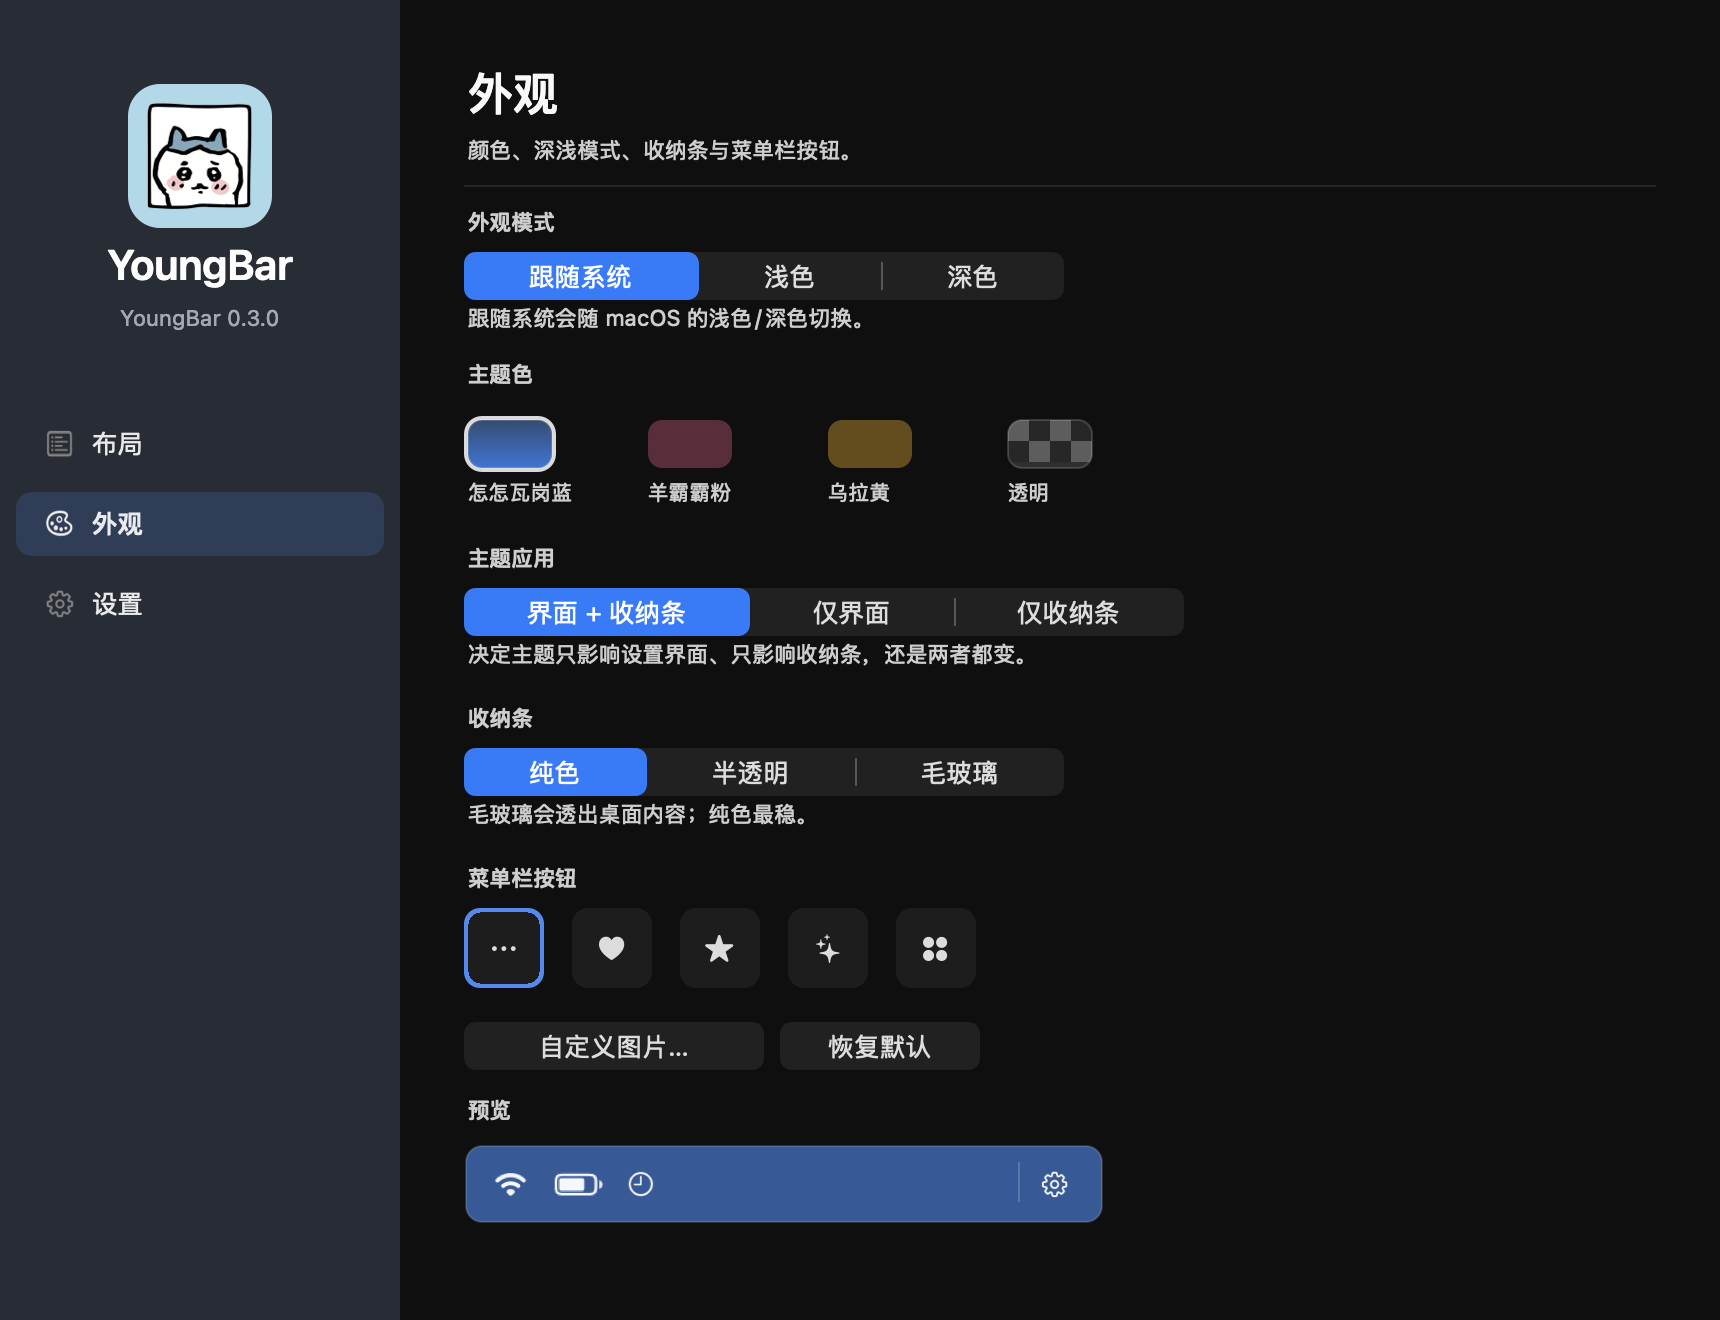
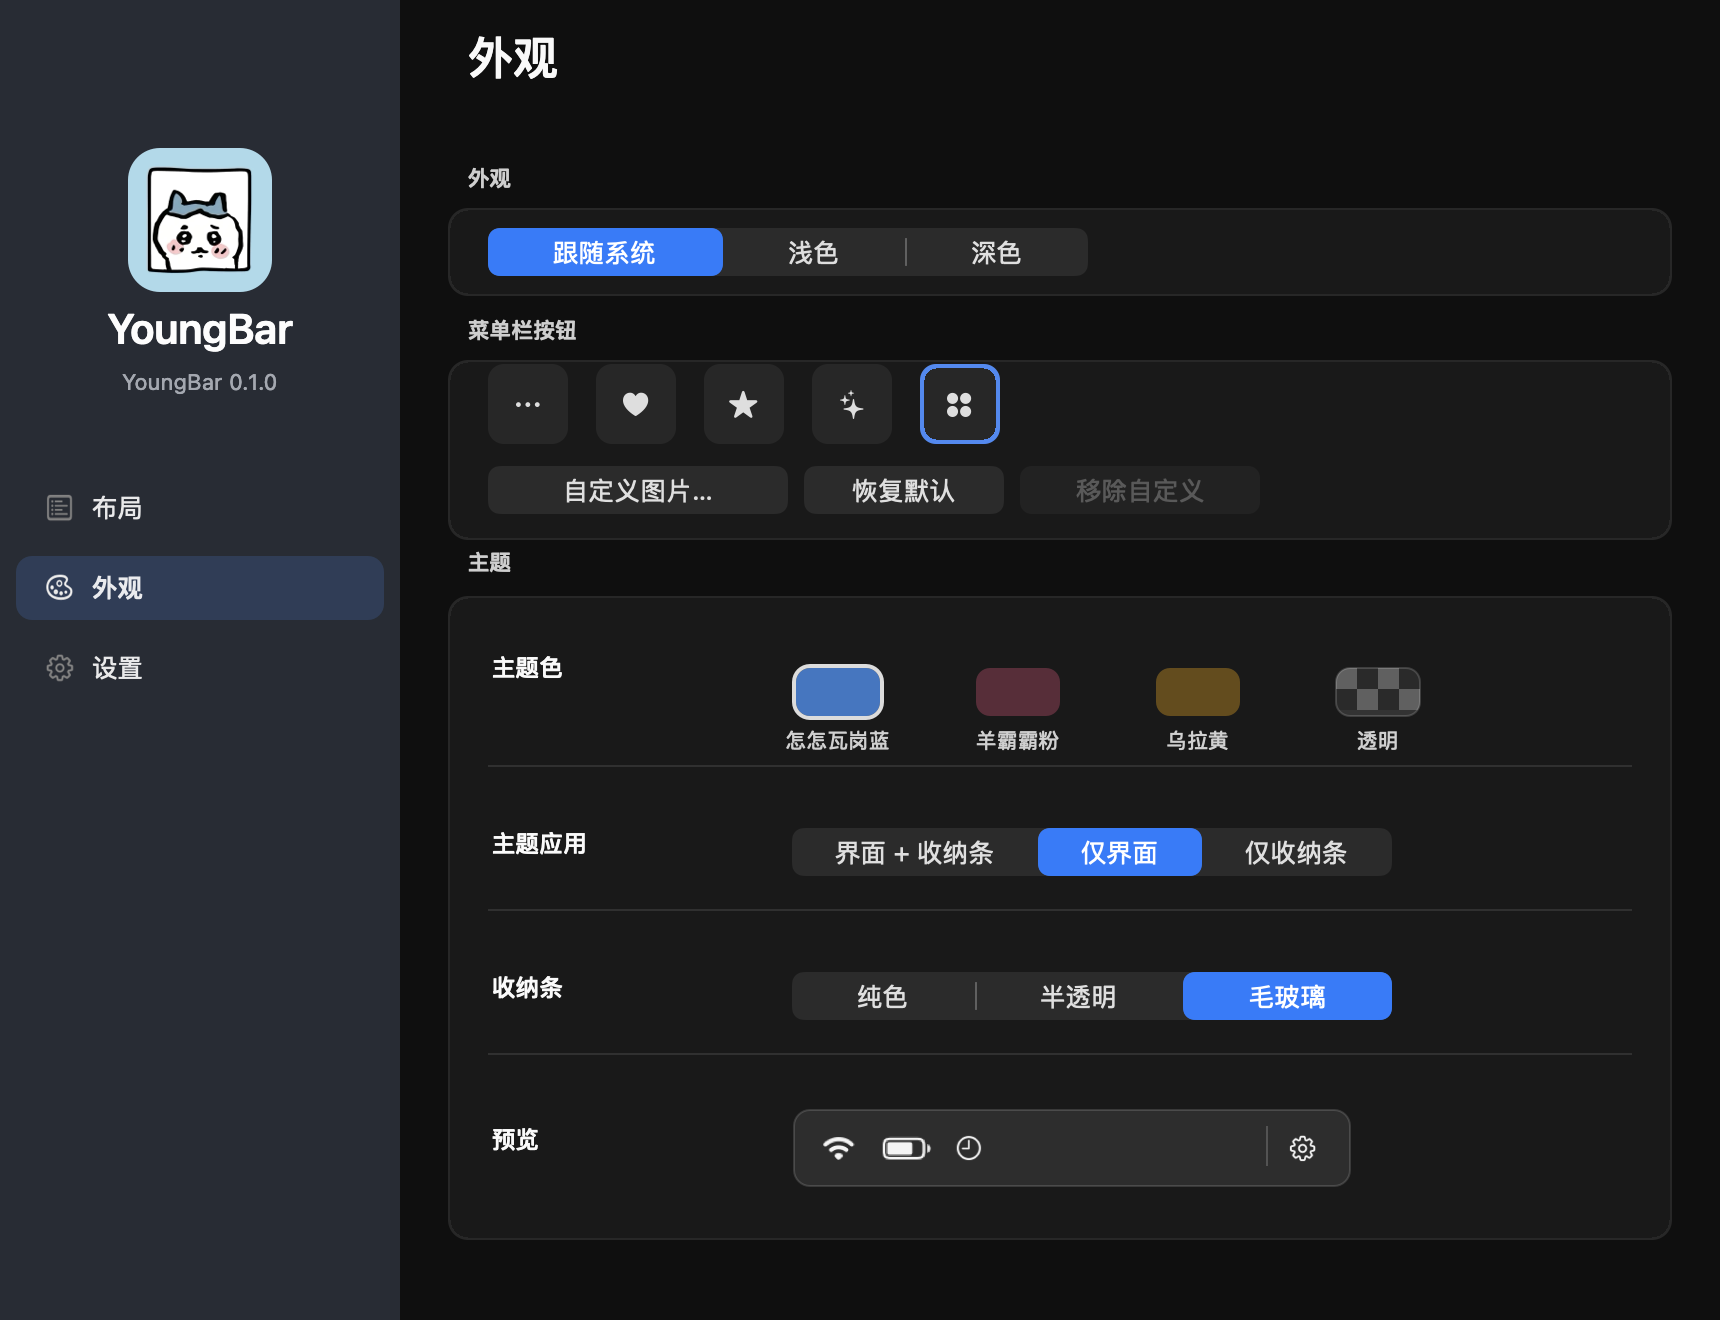
style(youngbar): 固定标题栏与外观页三分区
- 标题移出滚动内容，固定 header，悬停显示半透明底
- 外观页重排为 Appearance / 菜单栏按钮 / Theme
- Theme 内含主题色、作用范围、收纳条、预览
- 统一卡片内容边距与色块/文字居中
- 更新截图与第 145 轮日志

diff --git a/Sources/YoungBar/BarSettings.swift b/Sources/YoungBar/BarSettings.swift
@@ -66,6 +66,9 @@ final class BarSettings: NSObject, NSTableViewDataSource, NSTableViewDelegate {
     private let scopeControl = NSSegmentedControl(labels: ThemeScope.allCases.map(\.title),
                                                   trackingMode: .selectOne, target: nil, action: nil)
     private let appIconView = NSImageView()
+    private let headerBar = SettingsHeader()
+    private let headerTitle = NSTextField(labelWithString: "")
+    private let headerSubtitle = NSTextField(labelWithString: "")
     private var colorButtons: [ThemeSwatchButton] = []
     private let preview = ThemePreviewView()
     private var iconButtons: [NSButton] = []
@@ -176,6 +179,20 @@ final class BarSettings: NSObject, NSTableViewDataSource, NSTableViewDelegate {
         scroll.autoresizingMask = [.width, .height]
         root.addSubview(scroll)
 
+        headerBar.frame = NSRect(x: 200, y: 692 - 84, width: 660, height: 84)
+        headerBar.autoresizingMask = [.width, .minYMargin]
+        root.addSubview(headerBar)
+
+        headerTitle.frame = NSRect(x: 32, y: 40, width: 596, height: 30)
+        headerTitle.font = .systemFont(ofSize: 24, weight: .semibold)
+        headerTitle.textColor = .labelColor
+        headerBar.addSubview(headerTitle)
+
+        headerSubtitle.frame = NSRect(x: 32, y: 18, width: 596, height: 18)
+        headerSubtitle.font = .systemFont(ofSize: 11)
+        headerSubtitle.textColor = .secondaryLabelColor
+        headerBar.addSubview(headerSubtitle)
+
         generalPage.frame = content.bounds
         layoutPage.frame = content.bounds
         appearancePage.frame = content.bounds
@@ -189,71 +206,70 @@ final class BarSettings: NSObject, NSTableViewDataSource, NSTableViewDelegate {
     }
 
     private func buildGeneralPage() {
-        addHeader(to: generalPage, title: L10n.t("设置", "Settings"))
 
         // Startup
-        generalPage.addSubview(sectionLabel(L10n.t("启动", "Startup"), y: 532))
-        generalPage.addSubview(card(y: 486, height: 36))
+        generalPage.addSubview(sectionLabel(L10n.t("启动", "Startup"), y: 562))
+        generalPage.addSubview(card(y: 516, height: 40))
         loginCheck.target = self
         loginCheck.action = #selector(loginChanged)
-        loginCheck.frame = NSRect(x: 32, y: 492, width: 300, height: 24)
+        loginCheck.frame = NSRect(x: 44, y: 522, width: 300, height: 24)
         generalPage.addSubview(loginCheck)
 
         let languageLabel = label(L10n.t("语言", "Language"),
-                                  NSRect(x: 372, y: 495, width: 62, height: 16),
+                                  NSRect(x: 372, y: 525, width: 62, height: 16),
                                   .systemFont(ofSize: 11, weight: .medium))
         languageLabel.textColor = .secondaryLabelColor
         generalPage.addSubview(languageLabel)
         languagePopup.addItems(withTitles: ["中文", "English"])
         languagePopup.target = self
         languagePopup.action = #selector(languageChanged)
-        languagePopup.frame = NSRect(x: 438, y: 486, width: 158, height: 28)
+        languagePopup.frame = NSRect(x: 438, y: 516, width: 158, height: 28)
         generalPage.addSubview(languagePopup)
 
         // Display & behaviour
-        generalPage.addSubview(sectionLabel(L10n.t("显示与行为", "Display & Behaviour"), y: 456))
-        generalPage.addSubview(card(y: 268, height: 168))
+        generalPage.addSubview(sectionLabel(L10n.t("显示与行为", "Display & Behaviour"), y: 486))
+        generalPage.addSubview(card(y: 270, height: 196))
         modeControl.target = self
         modeControl.action = #selector(modeChanged)
-        modeControl.frame = NSRect(x: 32, y: 402, width: 250, height: 28)
+        modeControl.frame = NSRect(x: 44, y: 424, width: 250, height: 28)
         modeControl.toolTip = L10n.t("聚合模式把收纳项收进一条工具条。",
                                      "Aggregate mode collects concealed items into one strip.")
         generalPage.addSubview(modeControl)
 
-        var y: CGFloat = 362
+        var y: CGFloat = 386
         for (check, key) in [(keepCheck, "keepShelfOpen"), (hoverCheck, "hoverExpand"), (blankCheck, "blankClick")] {
             check.target = self
             check.action = #selector(optionChanged(_:))
             check.identifier = .init(key)
-            check.frame = NSRect(x: 32, y: y, width: 460, height: 24)
+            check.frame = NSRect(x: 44, y: y, width: 460, height: 24)
             generalPage.addSubview(check)
             y -= 26
         }
 
         generalPage.addSubview(label(L10n.t("再次自动隐藏", "Auto-hide after"),
-                                     NSRect(x: 32, y: 280, width: 120, height: 18),
+                                     NSRect(x: 44, y: 286, width: 120, height: 18),
                                      .systemFont(ofSize: 12, weight: .medium)))
         delaySlider.target = self
         delaySlider.action = #selector(delayChanged)
         delaySlider.isContinuous = true
-        delaySlider.frame = NSRect(x: 156, y: 278, width: 270, height: 24)
+        delaySlider.frame = NSRect(x: 168, y: 284, width: 270, height: 24)
         delaySlider.toolTip = L10n.t("点击收纳项后，它在菜单栏上保持原生的时长。",
                                      "How long a clicked item stays native on the bar.")
         generalPage.addSubview(delaySlider)
-        delayValue.frame = NSRect(x: 436, y: 281, width: 80, height: 18)
+        delayValue.frame = NSRect(x: 448, y: 287, width: 80, height: 18)
         generalPage.addSubview(delayValue)
 
         // Menu bar
         generalPage.addSubview(sectionLabel(L10n.t("菜单栏", "Menu Bar"), y: 240))
         generalPage.addSubview(card(y: 186, height: 44))
         generalPage.addSubview(label(L10n.t("菜单栏图标间隙", "Menu-bar icon spacing"),
-                                     NSRect(x: 32, y: 206, width: 190, height: 18),
+                                     NSRect(x: 44, y: 206, width: 190, height: 18),
                                      .systemFont(ofSize: 12, weight: .medium)))
         spacingPopup.addItems(withTitles: [L10n.t("默认间隙", "Default"), L10n.t("较小间隙", "Smaller"),
                                            L10n.t("小间隙", "Small"), L10n.t("无间隙", "None")])
         spacingPopup.target = self
         spacingPopup.action = #selector(spacingChanged)
-        spacingPopup.frame = NSRect(x: 226, y: 200, width: 190, height: 28)
+        spacingPopup.frame = NSRect(x: 240, y: 200, width: 190, height: 28)
         spacingPopup.toolTip = L10n.t("写入全局偏好，重启电脑后生效。",
                                       "Writes a global preference; takes effect after a reboot.")
         generalPage.addSubview(spacingPopup)
@@ -261,7 +277,7 @@ final class BarSettings: NSObject, NSTableViewDataSource, NSTableViewDelegate {
         // Permissions
         generalPage.addSubview(sectionLabel(L10n.t("权限", "Permissions"), y: 164))
         generalPage.addSubview(card(y: 80, height: 74))
-        axStatus.frame = NSRect(x: 32, y: 124, width: 360, height: 18)
+        axStatus.frame = NSRect(x: 44, y: 124, width: 360, height: 18)
         axStatus.font = .systemFont(ofSize: 12)
         axStatus.toolTip = L10n.t("权限属于 YoungBar 这个 app，不是终端或 DSH；首次使用需要在系统设置中打开。",
                                   "This permission belongs to the YoungBar app, not the terminal or DSH; enable it in System Settings on first use.")
@@ -271,7 +287,7 @@ final class BarSettings: NSObject, NSTableViewDataSource, NSTableViewDelegate {
         axButton.frame = NSRect(x: 306, y: 118, width: 90, height: 30)
         generalPage.addSubview(axButton)
 
-        captureStatus.frame = NSRect(x: 32, y: 88, width: 360, height: 18)
+        captureStatus.frame = NSRect(x: 44, y: 88, width: 360, height: 18)
         captureStatus.font = .systemFont(ofSize: 12)
         captureStatus.toolTip = L10n.t("权限属于 YoungBar 这个 app；授权后可能需要重启 app 才能抓取原始图标。",
                                        "This permission belongs to the YoungBar app; restart it after granting to capture original icons.")
@@ -283,10 +299,10 @@ final class BarSettings: NSObject, NSTableViewDataSource, NSTableViewDelegate {
 
         refreshButton.target = self
         refreshButton.action = #selector(refreshTapped)
-        refreshButton.frame = NSRect(x: 32, y: 44, width: 140, height: 30)
+        refreshButton.frame = NSRect(x: 44, y: 44, width: 140, height: 30)
         generalPage.addSubview(refreshButton)
 
-        messageField.frame = NSRect(x: 32, y: 18, width: 596, height: 20)
+        messageField.frame = NSRect(x: 44, y: 18, width: 584, height: 20)
         messageField.textColor = .secondaryLabelColor
         messageField.font = .systemFont(ofSize: 10.5)
         generalPage.addSubview(messageField)
@@ -320,7 +336,6 @@ final class BarSettings: NSObject, NSTableViewDataSource, NSTableViewDelegate {
     }
 
     private func buildLayoutPage() {
-        addHeader(to: layoutPage, title: L10n.t("菜单栏布局", "Layout"), subtitle: L10n.t("拖动行调整从左到右的顺序；勾选决定每一项的可见方式。", "Drag rows to set the left-to-right order; tick how each item should appear."))
 
         table.rowHeight = 44
         table.style = .plain
@@ -363,52 +378,20 @@ final class BarSettings: NSObject, NSTableViewDataSource, NSTableViewDelegate {
     }
 
     private func buildAppearancePage() {
-        addHeader(to: appearancePage, title: L10n.t("外观", "Appearance"))
-
-        appearancePage.addSubview(sectionLabel(L10n.t("外观模式", "Appearance mode"), y: 540))
-        appearancePage.addSubview(card(y: 498, height: 36))
+        // Appearance
+        appearancePage.addSubview(sectionLabel(L10n.t("外观", "Appearance"), y: 562))
+        appearancePage.addSubview(card(y: 512, height: 44))
         appearanceModeControl.target = self
         appearanceModeControl.action = #selector(appearanceModeChanged)
-        appearanceModeControl.frame = NSRect(x: 32, y: 504, width: 300, height: 28)
+        appearanceModeControl.frame = NSRect(x: 44, y: 520, width: 300, height: 28)
         appearancePage.addSubview(appearanceModeControl)
 
-        appearancePage.addSubview(sectionLabel(L10n.t("主题色", "Palette"), y: 464))
-        appearancePage.addSubview(card(y: 392, height: 66))
-        for (index, theme) in ThemeColor.allCases.enumerated() {
-            let button = ThemeSwatchButton(title: "", target: self, action: #selector(colorPicked(_:)))
-            button.frame = NSRect(x: 32 + CGFloat(index) * 90, y: 424, width: 46, height: 28)
-            button.isBordered = false
-            button.theme = theme
-            button.tag = index
-            button.toolTip = theme.title
-            button.setAccessibilityLabel(theme.title)
-            colorButtons.append(button)
-            appearancePage.addSubview(button)
-            let name = label(theme.title, NSRect(x: 32 + CGFloat(index) * 90, y: 404, width: 100, height: 16),
-                             .systemFont(ofSize: 10.5))
-            name.textColor = .secondaryLabelColor
-            appearancePage.addSubview(name)
-        }
-
-        appearancePage.addSubview(sectionLabel(L10n.t("主题应用", "Theme scope"), y: 368))
-        appearancePage.addSubview(card(y: 322, height: 36))
-        scopeControl.target = self
-        scopeControl.action = #selector(scopeChanged)
-        scopeControl.frame = NSRect(x: 32, y: 326, width: 360, height: 28)
-        appearancePage.addSubview(scopeControl)
-
-        appearancePage.addSubview(sectionLabel(L10n.t("收纳条", "Strip"), y: 292))
-        appearancePage.addSubview(card(y: 248, height: 38))
-        stripStyleControl.target = self
-        stripStyleControl.action = #selector(stripStyleChanged)
-        stripStyleControl.frame = NSRect(x: 32, y: 256, width: 300, height: 28)
-        appearancePage.addSubview(stripStyleControl)
-
-        appearancePage.addSubview(sectionLabel(L10n.t("菜单栏按钮", "Menu-bar button"), y: 212))
-        appearancePage.addSubview(card(y: 116, height: 90))
+        // Menu-bar button
+        appearancePage.addSubview(sectionLabel(L10n.t("菜单栏按钮", "Menu-bar button"), y: 486))
+        appearancePage.addSubview(card(y: 390, height: 90))
         for (index, symbol) in ControlIcon.symbols.enumerated() {
             let button = NSButton(title: "", target: self, action: #selector(iconPicked(_:)))
-            button.frame = NSRect(x: 32 + CGFloat(index) * 54, y: 166, width: 40, height: 40)
+            button.frame = NSRect(x: 44 + CGFloat(index) * 54, y: 438, width: 40, height: 40)
             button.isBordered = false
             button.wantsLayer = true
             button.layer?.cornerRadius = 8
@@ -426,22 +409,70 @@ final class BarSettings: NSObject, NSTableViewDataSource, NSTableViewDelegate {
         customIconButton.title = L10n.t("自定义图片…", "Custom image…")
         customIconButton.target = self
         customIconButton.action = #selector(customIconTapped)
-        customIconButton.frame = NSRect(x: 32, y: 122, width: 150, height: 30)
+        customIconButton.frame = NSRect(x: 44, y: 400, width: 150, height: 30)
         appearancePage.addSubview(customIconButton)
+
         let reset = NSButton(title: L10n.t("恢复默认", "Reset"),
                              target: self, action: #selector(resetIcon))
-        reset.frame = NSRect(x: 190, y: 122, width: 100, height: 30)
+        reset.frame = NSRect(x: 202, y: 400, width: 100, height: 30)
         appearancePage.addSubview(reset)
 
         removeCustomButton.title = L10n.t("移除自定义", "Remove custom")
         removeCustomButton.target = self
         removeCustomButton.action = #selector(removeCustomTapped)
-        removeCustomButton.frame = NSRect(x: 298, y: 122, width: 120, height: 30)
+        removeCustomButton.frame = NSRect(x: 310, y: 400, width: 120, height: 30)
         appearancePage.addSubview(removeCustomButton)
 
-        appearancePage.addSubview(sectionLabel(L10n.t("预览", "Preview"), y: 92))
-        appearancePage.addSubview(card(y: 34, height: 50))
-        preview.frame = NSRect(x: 32, y: 44, width: 320, height: 40)
+        // Theme: palette, scope, strip and preview in one group.
+        appearancePage.addSubview(sectionLabel(L10n.t("主题", "Theme"), y: 370))
+        appearancePage.addSubview(card(y: 40, height: 322))
+        for y in [276, 204, 132] {
+            let line = NSBox(frame: NSRect(x: 44, y: CGFloat(y), width: 572, height: 1))
+            line.boxType = .separator
+            appearancePage.addSubview(line)
+        }
+
+        appearancePage.addSubview(label(L10n.t("主题色", "Colour"),
+                                        NSRect(x: 44, y: 316, width: 120, height: 18),
+                                        .systemFont(ofSize: 12, weight: .medium)))
+        for (index, theme) in ThemeColor.allCases.enumerated() {
+            let x = 196 + CGFloat(index) * 90
+            let button = ThemeSwatchButton(title: "", target: self, action: #selector(colorPicked(_:)))
+            button.frame = NSRect(x: x, y: 300, width: 46, height: 28)
+            button.isBordered = false
+            button.theme = theme
+            button.tag = index
+            button.toolTip = theme.title
+            button.setAccessibilityLabel(theme.title)
+            colorButtons.append(button)
+            appearancePage.addSubview(button)
+            let name = label(theme.title, NSRect(x: x - 22, y: 280, width: 90, height: 16),
+                             .systemFont(ofSize: 10.5))
+            name.alignment = .center
+            name.textColor = .secondaryLabelColor
+            appearancePage.addSubview(name)
+        }
+
+        appearancePage.addSubview(label(L10n.t("主题应用", "Scope"),
+                                        NSRect(x: 44, y: 228, width: 120, height: 18),
+                                        .systemFont(ofSize: 12, weight: .medium)))
+        scopeControl.target = self
+        scopeControl.action = #selector(scopeChanged)
+        scopeControl.frame = NSRect(x: 196, y: 220, width: 300, height: 28)
+        appearancePage.addSubview(scopeControl)
+
+        appearancePage.addSubview(label(L10n.t("收纳条", "Strip"),
+                                        NSRect(x: 44, y: 156, width: 120, height: 18),
+                                        .systemFont(ofSize: 12, weight: .medium)))
+        stripStyleControl.target = self
+        stripStyleControl.action = #selector(stripStyleChanged)
+        stripStyleControl.frame = NSRect(x: 196, y: 148, width: 300, height: 28)
+        appearancePage.addSubview(stripStyleControl)
+
+        appearancePage.addSubview(label(L10n.t("预览", "Preview"),
+                                        NSRect(x: 44, y: 80, width: 120, height: 18),
+                                        .systemFont(ofSize: 12, weight: .medium)))
+        preview.frame = NSRect(x: 196, y: 66, width: 280, height: 40)
         appearancePage.addSubview(preview)
     }
 
@@ -512,7 +543,22 @@ final class BarSettings: NSObject, NSTableViewDataSource, NSTableViewDelegate {
         layoutPage.isHidden = id != "layout"
         appearancePage.isHidden = id != "appearance"
         for (key, button) in navButtons { button.selected = key == id }
-        if id == "layout" { table.reloadData() }
+        switch id {
+        case "layout":
+            headerTitle.stringValue = L10n.t("布局", "Layout")
+            headerSubtitle.stringValue = L10n.t("拖动行调整从左到右的顺序；勾选决定每一项的可见方式。",
+                                                "Drag rows to set the left-to-right order; tick how each item should appear.")
+            headerSubtitle.isHidden = false
+            table.reloadData()
+        case "appearance":
+            headerTitle.stringValue = L10n.t("外观", "Appearance")
+            headerSubtitle.stringValue = ""
+            headerSubtitle.isHidden = true
+        default:
+            headerTitle.stringValue = L10n.t("设置", "Settings")
+            headerSubtitle.stringValue = ""
+            headerSubtitle.isHidden = true
+        }
     }
 
     @objc private func loginChanged() {
@@ -792,6 +838,37 @@ final class LayoutRowView: NSTableRowView {
         let path = NSBezierPath(roundedRect: rect, xRadius: 8, yRadius: 8)
         NSColor.controlAccentColor.withAlphaComponent(0.16).setFill()
         path.fill()
+    }
+}
+
+@MainActor
+final class SettingsHeader: NSView {
+    private var tracking: NSTrackingArea?
+
+    override init(frame frameRect: NSRect) {
+        super.init(frame: frameRect)
+        wantsLayer = true
+        layer?.backgroundColor = NSColor.clear.cgColor
+    }
+
+    required init?(coder: NSCoder) { fatalError("init(coder:) has not been implemented") }
+
+    override func updateTrackingAreas() {
+        super.updateTrackingAreas()
+        if let tracking { removeTrackingArea(tracking) }
+        let area = NSTrackingArea(rect: .zero,
+                                  options: [.mouseEnteredAndExited, .activeInKeyWindow, .inVisibleRect],
+                                  owner: self, userInfo: nil)
+        addTrackingArea(area)
+        tracking = area
+    }
+
+    override func mouseEntered(with event: NSEvent) {
+        layer?.backgroundColor = NSColor.windowBackgroundColor.withAlphaComponent(0.62).cgColor
+    }
+
+    override func mouseExited(with event: NSEvent) {
+        layer?.backgroundColor = NSColor.clear.cgColor
     }
 }
 
